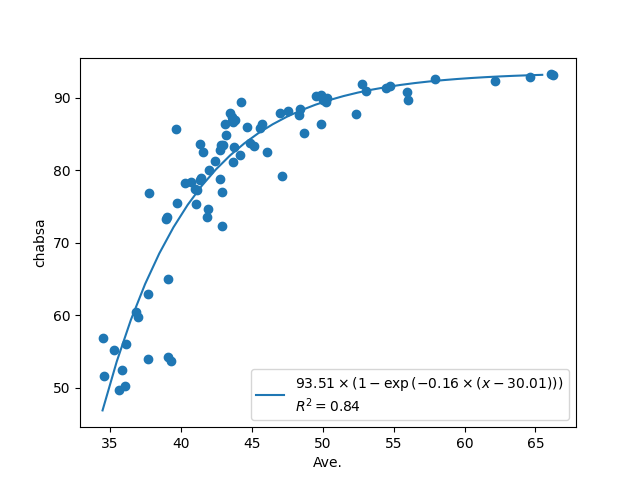
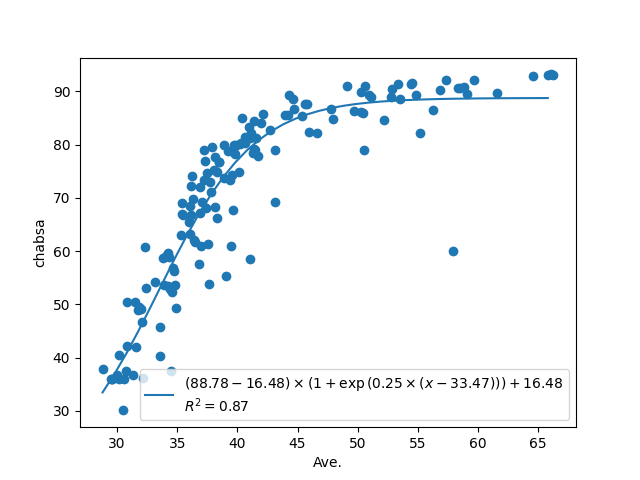
add

diff --git a/analysis/generate.py b/analysis/generate.py
@@ -10,34 +10,51 @@ result_dict = {}
 
 root_path = os.path.dirname(os.path.dirname(os.path.abspath(__file__)))
 
-for file_name in glob.glob("models/*/*/result.json", root_dir=root_path):
-    _, company, modelname, _ = file_name.split("/")
+for dir_name in glob.glob("models/*/*/"):
+    _, company, modelname, _ = dir_name.split("/")
     company_model = company + "/" + modelname
-    with open(file_name, "r") as f:
-        data = json.load(f)
-    results_sum = 0
-    count = 0
-    for task, results in data["results"].items():
-        task_name = task.split("-")[0]
-        result = results.get("f1", results.get("acc"))
-        result = 100 * (result if result else 0)
-        result_dict.setdefault(company_model, {})[task_name] = result
-        if result:
-            results_sum += result
-            count += 1
-    result_dict.setdefault(company_model, {})["Ave."] = (
-        results_sum / count if count > 0 else 0
-    )
+    results_files = [
+        x.replace("harness", "result").replace(".sh", ".json")
+        for x in glob.glob(dir_name + "harness*.sh")
+    ]
+    if sum([not os.path.exists(x) for x in results_files]) > 0:
+        print(f"Skipping {company_model} as results are not available")
+        continue
+    data = {}
+    best_data = {}
+    best_ave = 0.0
+    for resuls_file in results_files:
+        task_version = resuls_file.split("/")[-1].split("-", 1)[-1].replace(".json", "")
+        with open(resuls_file, "r") as f:
+            results_data = json.load(f)
+            results_sum = 0
+            count = 0
+            tmp_result_dict = {}
+            for task, results in results_data["results"].items():
+                task_name = task.split("-")[0]
+                result = results.get("f1,none", results.get("acc,none"))
+                result = 100 * (result if result else 0)
+                tmp_result_dict[task_name] = result
+                if result:
+                    results_sum += result
+                    count += 1
+            tmp_result_dict["Ave."] = results_sum / count if count > 0 else 0
+            data[task_version] = tmp_result_dict
+            if tmp_result_dict["Ave."] > best_ave:
+                best_ave = tmp_result_dict["Ave."]
+                best_data = tmp_result_dict
+    for task, result in best_data.items():
+        result_dict.setdefault(company_model, {})[task] = result
 
 average = np.array(list(map(lambda x: x["Ave."], result_dict.values())))
 target = np.array(list(map(lambda x: x["chabsa"], result_dict.values())))
 
 
-def curv(x, a, b, c):
-    return c * (1 - np.exp(a * (x - b)))
+def curv(x, a, b, range_min, range_max):
+    return (range_max - range_min) / (1 + np.exp(-a * (x - b))) + range_min
 
 
-popt, pocv = curve_fit(curv, average, target, p0=[-0.1, 30, 95])
+popt, pocv = curve_fit(curv, average, target, p0=[-0.1, 30, 100, 20])
 residuals = target - curv(average, *popt)
 rss = np.sum(residuals**2)
 tss = np.sum((target - np.mean(target)) ** 2)
@@ -48,13 +65,13 @@ plt.scatter(average, target)
 plt.plot(
     dummy_x,
     dummy_y,
-    label=f"${popt[2]:0.2f} "
-    + "\\times"
-    + " (1 - \\exp{("
-    + f"{popt[0]:0.2f}"
+    label=f"$({popt[2]:0.2f} - {popt[3]:0.2f}) "
+    + "\\times (1 + \\exp{("
+    + f"{-popt[0]:0.2f}"
     + " \\times (x - "
     + f"{popt[1]:0.2f}"
-    + "))})$\n$R^2="
+    + "))}) + "
+    + f"{popt[3]:0.2f}$\n$R^2="
     + f"{r_squared:0.2f}$",
 )
 plt.xlabel("Ave.")
@@ -68,11 +85,11 @@ average = np.array(list(map(lambda x: x["Ave."], result_dict.values())))
 target = np.array(list(map(lambda x: x["cma_basics"], result_dict.values())))
 
 
-def curv(x, a, b):
-    return a * (x - b)
+def curv(x, a, b, range_min, range_max):
+    return (range_max - range_min) / (1 + np.exp(-a * (x - b))) + range_min
 
 
-popt, pocv = curve_fit(curv, average, target, p0=[1, 0])
+popt, pocv = curve_fit(curv, average, target, p0=[0.1, 20, 100, 20])
 residuals = target - curv(average, *popt)
 rss = np.sum(residuals**2)
 tss = np.sum((target - np.mean(target)) ** 2)
@@ -83,7 +100,14 @@ plt.scatter(average, target)
 plt.plot(
     dummy_x,
     dummy_y,
-    label=f"${popt[0]:0.2f} (x - {popt[1]:0.2f})$\n$R^2=" + f"{r_squared:0.2f}$",
+    label=f"$({popt[2]:0.2f} - {popt[3]:0.2f}) "
+    + "\\times (1 + \\exp{("
+    + f"{-popt[0]:0.2f}"
+    + " \\times (x - "
+    + f"{popt[1]:0.2f}"
+    + "))}) + "
+    + f"{popt[3]:0.2f}$\n$R^2="
+    + f"{r_squared:0.2f}$",
 )
 plt.xlabel("Ave.")
 plt.ylabel("cma_basics")
@@ -96,11 +120,11 @@ average = np.array(list(map(lambda x: x["Ave."], result_dict.values())))
 target = np.array(list(map(lambda x: x["cpa_audit"], result_dict.values())))
 
 
-def curv(x, a, b):
-    return a * (x - b)
+def curv(x, a, b, range_min, range_max):
+    return (range_max - range_min) / (1 + np.exp(-a * (x - b))) + range_min
 
 
-popt, pocv = curve_fit(curv, average, target, p0=[1, 0])
+popt, pocv = curve_fit(curv, average, target, p0=[0.1, 70, 100, 20])
 residuals = target - curv(average, *popt)
 rss = np.sum(residuals**2)
 tss = np.sum((target - np.mean(target)) ** 2)
@@ -111,7 +135,14 @@ plt.scatter(average, target)
 plt.plot(
     dummy_x,
     dummy_y,
-    label=f"${popt[0]:0.2f} (x - {popt[1]:0.2f})$\n$R^2=" + f"{r_squared:0.2f}$",
+    label=f"$({popt[2]:0.2f} - {popt[3]:0.2f}) "
+    + "\\times (1 + \\exp{("
+    + f"{-popt[0]:0.2f}"
+    + " \\times (x - "
+    + f"{popt[1]:0.2f}"
+    + "))}) + "
+    + f"{popt[3]:0.2f}$\n$R^2="
+    + f"{r_squared:0.2f}$",
 )
 plt.xlabel("Ave.")
 plt.ylabel("cpa_audit")
@@ -124,11 +155,11 @@ average = np.array(list(map(lambda x: x["Ave."], result_dict.values())))
 target = np.array(list(map(lambda x: x["fp2"], result_dict.values())))
 
 
-def curv(x, a, b):
-    return a * (x - b)
+def curv(x, a, b, range_min, range_max):
+    return (range_max - range_min) / (1 + np.exp(-a * (x - b))) + range_min
 
 
-popt, pocv = curve_fit(curv, average, target, p0=[1, 0])
+popt, pocv = curve_fit(curv, average, target, p0=[0.2, 70, 100, 20])
 residuals = target - curv(average, *popt)
 rss = np.sum(residuals**2)
 tss = np.sum((target - np.mean(target)) ** 2)
@@ -139,7 +170,14 @@ plt.scatter(average, target)
 plt.plot(
     dummy_x,
     dummy_y,
-    label=f"${popt[0]:0.2f} (x - {popt[1]:0.2f})$\n$R^2=" + f"{r_squared:0.2f}$",
+    label=f"$({popt[2]:0.2f} - {popt[3]:0.2f}) "
+    + "\\times (1 + \\exp{("
+    + f"{-popt[0]:0.2f}"
+    + " \\times (x - "
+    + f"{popt[1]:0.2f}"
+    + "))}) + "
+    + f"{popt[3]:0.2f}$\n$R^2="
+    + f"{r_squared:0.2f}$",
 )
 plt.xlabel("Ave.")
 plt.ylabel("fp2")
@@ -152,11 +190,11 @@ average = np.array(list(map(lambda x: x["Ave."], result_dict.values())))
 target = np.array(list(map(lambda x: x["security_sales_1"], result_dict.values())))
 
 
-def curv(x, a, b):
-    return a * (x - b)
+def curv(x, a, b, range_min, range_max):
+    return (range_max - range_min) / (1 + np.exp(-a * (x - b))) + range_min
 
 
-popt, pocv = curve_fit(curv, average, target, p0=[1, 0])
+popt, pocv = curve_fit(curv, average, target, p0=[0.1, 20, 100, 20])
 residuals = target - curv(average, *popt)
 rss = np.sum(residuals**2)
 tss = np.sum((target - np.mean(target)) ** 2)
@@ -167,7 +205,14 @@ plt.scatter(average, target)
 plt.plot(
     dummy_x,
     dummy_y,
-    label=f"${popt[0]:0.2f} (x + {-popt[1]:0.2f})$\n$R^2=" + f"{r_squared:0.2f}$",
+    label=f"$({popt[2]:0.2f} - {popt[3]:0.2f}) "
+    + "\\times (1 + \\exp{("
+    + f"{-popt[0]:0.2f}"
+    + " \\times (x - "
+    + f"{popt[1]:0.2f}"
+    + "))}) + "
+    + f"{popt[3]:0.2f}$\n$R^2="
+    + f"{r_squared:0.2f}$",
 )
 plt.xlabel("Ave.")
 plt.ylabel("security_sales_1")

diff --git a/api_models.py b/api_models.py
@@ -1,6 +1,7 @@
 import os
 import re
 import time
+import unicodedata
 from collections import defaultdict
 from typing import Any
 from typing import Dict
@@ -8,16 +9,16 @@ from typing import List
 from typing import Literal
 from typing import Optional
 from typing import Tuple
-import unicodedata
+
 import anthropic
-import vertexai
-import vertexai.preview.generative_models
 import lm_eval.evaluator
 import openai
+import vertexai
+import vertexai.preview.generative_models
 from lm_eval.__main__ import parse_eval_args
 from lm_eval.__main__ import setup_parser
-from lm_eval.models.openai_completions import OpenaiCompletionsLM
 from lm_eval.models.anthropic_llms import AnthropicLM
+from lm_eval.models.openai_completions import OpenaiCompletionsLM
 from tqdm import tqdm
 
 from main import cli_evaluate
